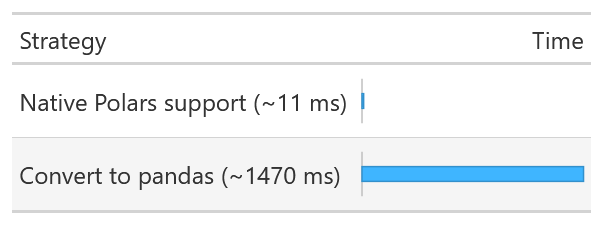
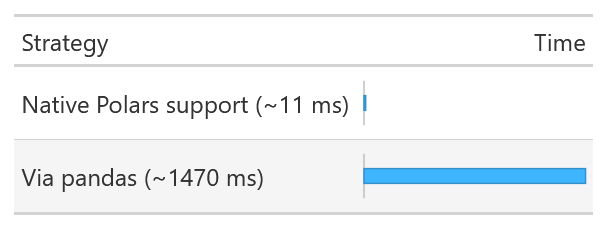
update image

diff --git a/apps/labs/posts/scikit-lego-narwhals.md b/apps/labs/posts/scikit-lego-narwhals.md
@@ -82,11 +82,13 @@ LazyFrame, which can run significantly faster because it delays reading data int
 [several optimisations](https://docs.pola.rs/user-guide/lazy/optimizations/),
 then you're required to call `.collect` on it before converting to pandas.
 
-To drive the second point home, here are some timings comparing running `add_lags` on a
-10-million-row Polars dataframe directly, as opposed to converting to pandas and back:
+To drive the second point home, here are some timings comparing:
 
-![passing Polars directly to `add_lags` takes ~ 11 ms, whereas converting to pandas
-first and then passing that takes ~ 1470 ms. Made with `great-tables` package](/posts/scikit-lego-narwhals/comparison.png)
+- running `add_lags` on a 10-million-row Polars dataframe directly
+- converting that same dataframe to pandas and running `add_lags` on that
+
+![with native Polars support `add_lags` takes ~ 11 ms, whereas going via pandas it
+takes ~ 1470 ms. Image produced with `great-tables` package](/posts/scikit-lego-narwhals/comparison.png)
 
 [Code to reproduce](https://gist.github.com/MarcoGorelli/1da1971063caf0b3e5133f5dfba3315b).
 
